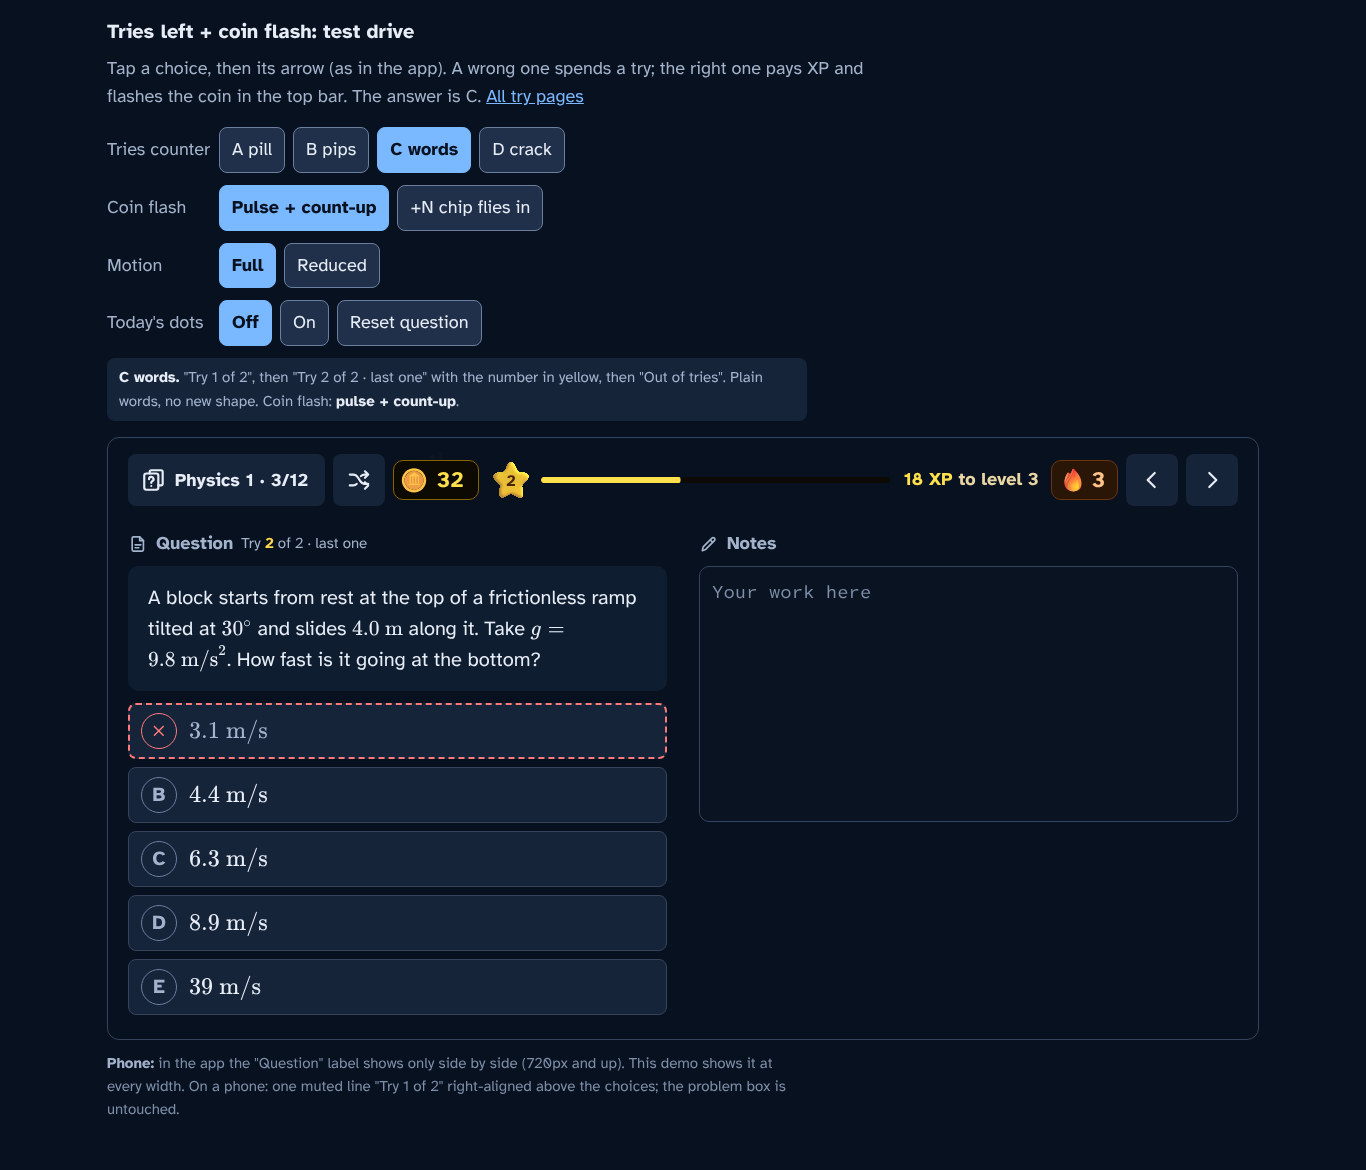
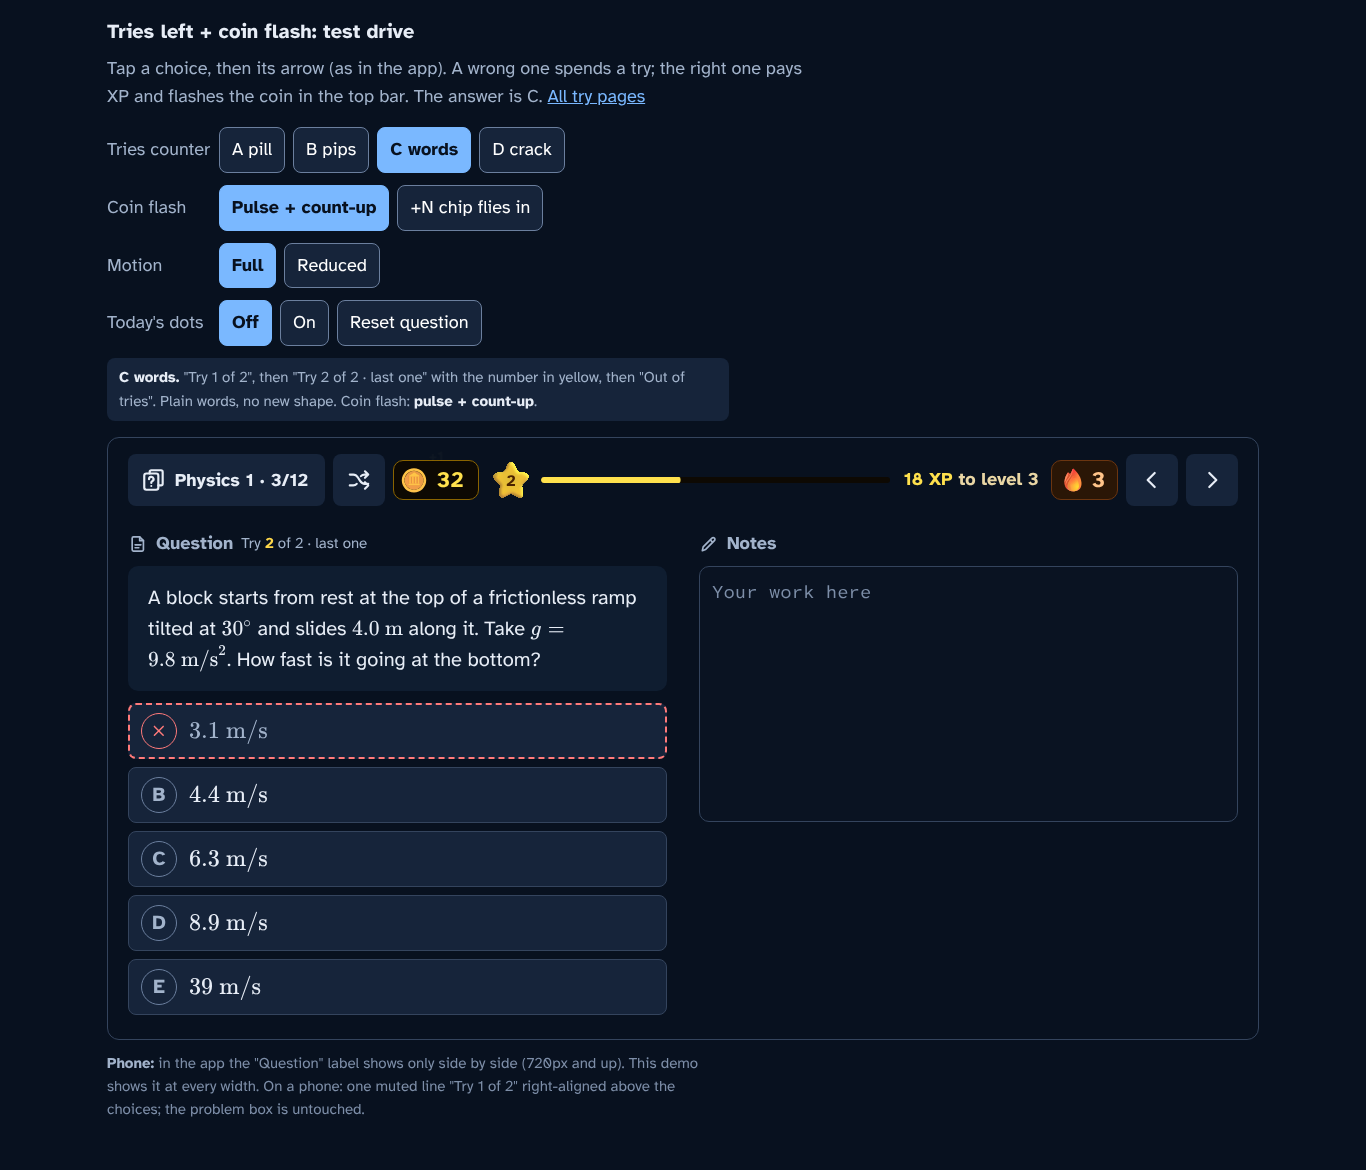
tries.html: fix D counter race (spent token marked at once), Impeccable pass on try/ pages; tools/impeccable.sh
Claude-Session: https://claude.ai/code/session_01Mq6fBtC2a3CbngQKHXw6vs

diff --git a/try/tries.html b/try/tries.html
@@ -22,15 +22,15 @@
   body { padding: var(--s4) var(--gut) var(--s7); overflow-x: hidden; }
   .wrap { max-width: 72rem; margin: 0 auto; }
   h1 { font-size: var(--t-md); margin: 0 0 var(--s2); }
-  .lead { margin: 0 0 var(--s4); color: var(--muted); font-size: var(--t-sm); max-width: 65ch; }
+  .lead { margin: 0 0 var(--s4); color: var(--muted); font-size: var(--t-sm); max-width: 60ch; }
   .lead a { color: var(--c1); }
   .seg { display: flex; flex-wrap: wrap; align-items: center; gap: var(--s2); margin: 0 0 var(--s3); }
   .seg > span { color: var(--muted); font-size: var(--t-sm); min-width: 6.5rem; }
-  .seg button, .act { font: inherit; font-size: var(--t-sm); color: var(--ink); background: var(--raised); border: var(--bw) solid var(--edge);
+  .seg button, .act { font: inherit; font-size: var(--t-sm); color: #fff; background: var(--sheet); border: var(--bw) solid var(--edge);
     border-radius: 8px; padding: var(--s2) var(--s3); min-height: 44px; cursor: pointer; }
   .seg button[aria-pressed="true"] { background: var(--c1); color: var(--paper); border-color: var(--c1); font-weight: 700; }
   .act { background: var(--sheet); }
-  .why { margin: 0 0 var(--s4); padding: var(--s2) var(--s3); border-left: 0; background: var(--sheet); border-radius: 8px; font-size: var(--t-xs); color: var(--muted); max-width: 72ch; }
+  .why { margin: 0 0 var(--s4); padding: var(--s2) var(--s3); border-left: 0; background: var(--sheet); border-radius: 8px; font-size: var(--t-xs); color: var(--muted); max-width: 64ch; }
   .why b { color: var(--ink); }
 
   /* ---------- the app frame: top bar + question column (+ notes column from 720px, as html.side) ---------- */
@@ -46,14 +46,14 @@
   .notes .xb-label { margin: 0 0 var(--s2); min-height: 1.75rem; }
   .pad { min-height: 16rem; border-radius: 10px; background: var(--field); border: var(--bw) solid var(--line); padding: var(--s3); color: var(--hint); font: var(--t-sm)/1.5 var(--mono); }
   @media (max-width: 719px) { .notes { display: none; } }
-  .note { margin-top: var(--s3); margin-bottom: 0; font-size: var(--t-xs); color: var(--hint); max-width: 72ch; }
+  .note { margin-top: var(--s3); margin-bottom: 0; font-size: var(--t-xs); color: var(--hint); max-width: 64ch; }
   .note b { color: var(--muted); }
 
   /* ---------- the counter (one element, four looks) ---------- */
   .ctr { display: inline-flex; align-items: center; gap: var(--s2); font-size: var(--t-xs); font-weight: 700; line-height: 1; color: var(--muted); white-space: nowrap; }
   .ctr .w { font-weight: 700; }
   /* A: a small pill "2 tries left" */
-  .ctr[data-v="A"] .w { padding: 4px 10px; border-radius: 999px; background: var(--raised); color: var(--ink); border: var(--bw) solid var(--edge); }
+  .ctr[data-v="A"] .w { padding: 4px 10px; border-radius: 999px; background: var(--sheet); color: #fff; border: var(--bw) solid var(--edge); }
   .ctr[data-v="A"][data-left="1"] .w { color: var(--mark); border-color: var(--mark); }
   .ctr[data-v="A"][data-left="0"] .w { color: var(--bad); border-color: var(--bad); background: none; }
   .ctr[data-v="A"].done .w { color: var(--ok); border-color: var(--ok); background: none; }
@@ -78,7 +78,10 @@
   .ctr[data-v="D"] .pp i.sp::before { transform: translate(-2px, 1px) rotate(-10deg); }
   .ctr[data-v="D"] .pp i.sp::after { transform: translate(2px, -1px) rotate(10deg); }
   .ctr[data-v="D"] .pp i.crack { animation: crack .42s ease-out; }
-  .ctr[data-v="D"] .pp i.crack::before, .ctr[data-v="D"] .pp i.crack::after { transition: transform .3s cubic-bezier(.16, 1, .3, 1) .12s; }
+  .ctr[data-v="D"] .pp i.crack::before { animation: half-l .42s cubic-bezier(.16, 1, .3, 1) both; }
+  .ctr[data-v="D"] .pp i.crack::after { animation: half-r .42s cubic-bezier(.16, 1, .3, 1) both; }
+  @keyframes half-l { 0%, 30% { transform: none; } }
+  @keyframes half-r { 0%, 30% { transform: none; } }
   .ctr[data-v="D"].done .pp i:not(.sp)::before, .ctr[data-v="D"].done .pp i:not(.sp)::after { background: var(--ok); }
   .ctr[data-v="D"] .w { color: var(--mark); }
   .ctr[data-v="D"][data-left="0"] .w { color: var(--bad); }
@@ -89,7 +92,7 @@
 
   /* ---------- coin flash (rewards.css tokens; the floating chip rides the FX particle layer, z 150) ---------- */
   .rw-coin { transition: box-shadow .2s ease-out, border-color .2s ease-out; }
-  .rw-coin.cf-pulse { border-color: var(--rw-sun); box-shadow: 0 0 0 2px var(--rw-sun), 0 0 18px 2px rgb(255 225 77 / .45); animation: cf-pulse .7s cubic-bezier(.16, 1, .3, 1); }
+  .rw-coin.cf-pulse { border-color: var(--rw-sun); box-shadow: 0 0 0 2px var(--rw-sun); animation: cf-pulse .7s cubic-bezier(.16, 1, .3, 1); }
   .rw-coin.cf-pulse .rw-num { color: #fff; }
   @keyframes cf-pulse { 0% { transform: scale(1); } 30% { transform: scale(1.14); } 100% { transform: scale(1); } }
   .cf-tag { position: fixed; z-index: 150; pointer-events: none; padding: 2px 8px; border-radius: 999px; background: var(--rw-sun); color: var(--rw-text);
@@ -258,8 +261,8 @@ function counter(missed) {
   else h = toks() + `<span class="w">${done ? "" : L === 0 ? "out" : L === 1 && MAX > 1 ? "last try" : ""}</span>`;
   el.innerHTML = h;
   el.title = done ? "Solved" : `${L} of ${MAX} tries left`;
-  if (missed && v === "D" && !S.rm) {                // the token just spent: shake, then the halves part (CSS transition)
-    const t = el.querySelectorAll(".pp i")[L]; if (t) { t.classList.remove("sp"); t.classList.add("crack"); void t.offsetWidth; requestAnimationFrame(() => t.classList.add("sp")); t.addEventListener("animationend", () => t.classList.remove("crack"), { once: true }); }
+  if (missed && v === "D" && !S.rm) {                // the token just spent: shake, then the halves part (CSS keyframes)
+    const t = el.querySelectorAll(".pp i")[L]; if (t) { t.classList.add("crack"); setTimeout(() => t.classList.remove("crack"), 500); }   // it is spent at once (.sp); the crack only animates
   }
 }
 

diff --git a/try/index.html b/try/index.html
@@ -34,7 +34,7 @@
   <p class="lead">Every UI proposal you can test right here. Each page switches its variants on the page (and by <code>?v=</code>); <code>?rm=1</code> forces reduced motion.</p>
   <ul id="tries">
     <li><a href="tries.html"><span class="t">Tries left + coin flash<span class="new">new</span></span><span class="d">A tries counter next to the "Question" label (pill, pips, words, crack) and the top-bar XP coin flashing +N on a right answer.</span><span class="qp">?v=A|B|C|D ?f=pulse|chip ?rm=1</span></a></li>
-    <li><a href="ticker.html"><span class="t">Work ticker</span><span class="d">Drag a line across the F–x graph: each pillar flashes +N J / −N J, then they collapse into W. Plus Cluck follow-ups as JSON blocks.</span><span class="qp">?rm=1</span></a></li>
+    <li><a href="ticker.html"><span class="t">Work ticker</span><span class="d">Drag a line across the F–x graph: a running "W = 12.0 J" with a plain text ticker beside it (▲ +4.5 green, ▼ −0.5 red). Plus Cluck follow-ups as JSON blocks.</span><span class="qp">?rm=1</span></a></li>
     <li><a href="live-scene.html"><span class="t">Live scene</span><span class="d">Two physics questions with a live figure (drag + sliders): how many numbers it shows and where it sits.</span><span class="qp">?num= ?at=</span></a></li>
     <li><a href="redo-variants.html"><span class="t">Redo misses button</span><span class="d">Five looks for "Redo my misses" in the question bar, phone and desktop, idle and in a round.</span><span class="qp">all on one page</span></a></li>
     <li class="next">Next proposal goes here: add one line at the top of this list.</li>
